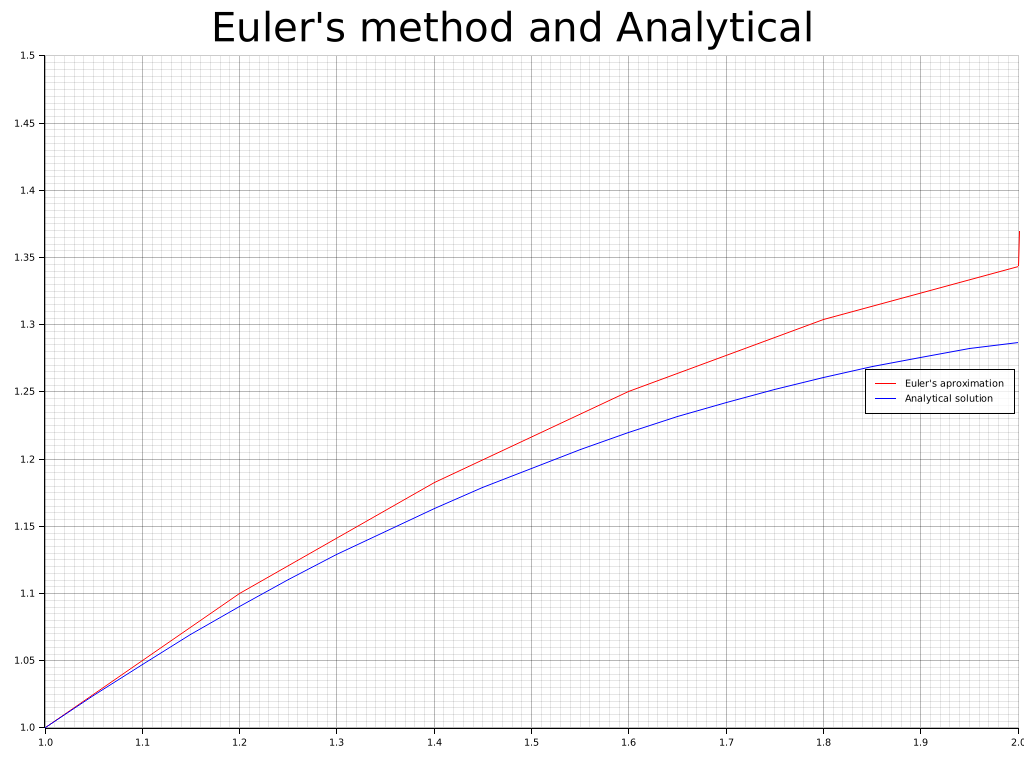
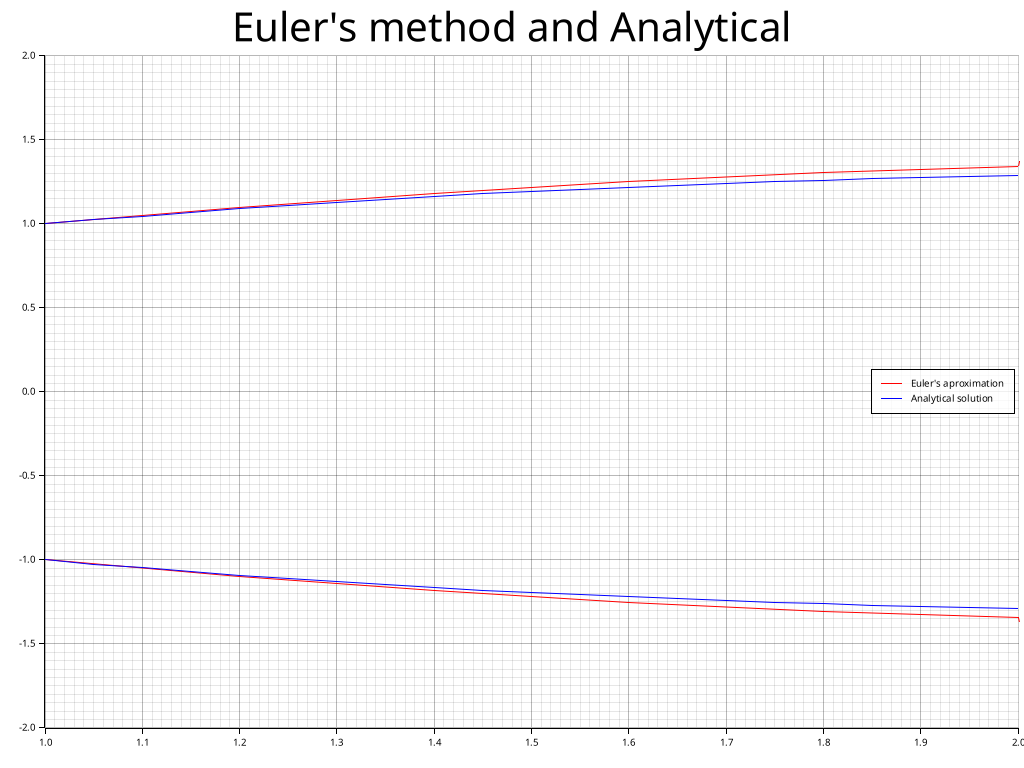
fix: two solvations now

Changed region(s): [[0.0, 0.0, 1.0, 0.9688]]

diff --git a/src/main.rs b/src/main.rs
@@ -125,7 +125,7 @@ fn main() -> Result<(), Box<dyn std::error::Error>> {
         .margin(5)
         .x_label_area_size(35)
         .y_label_area_size(40)
-        .build_cartesian_2d(A..B, 1f64..1.5)?;
+        .build_cartesian_2d(A..B, -2f64..2f64)?;
 
     chart.configure_mesh().draw()?;
 
@@ -138,6 +138,13 @@ fn main() -> Result<(), Box<dyn std::error::Error>> {
         .label("Euler's aproximation")
         .legend(|(x, y)| PathElement::new(vec![(x, y), (x + 20, y)], &RED));
 
+    chart
+        .draw_series(LineSeries::new(
+            xs.iter().zip(ys_e.iter().map(|y| -y)).map(|(&x, y)| (x, y)),
+            &RED
+        ))?;
+
+
     // Analytical graph
     chart
         .draw_series(LineSeries::new(
@@ -146,6 +153,12 @@ fn main() -> Result<(), Box<dyn std::error::Error>> {
         ))?
         .label("Analytical solution")
         .legend(|(x, y)| PathElement::new(vec![(x, y), (x + 20, y)], &BLUE));
+    chart
+        .draw_series(LineSeries::new(
+            xs_exact.iter().zip(ys_aex.iter().map(|y| -y)).map(|(&x, y)| (x, y)),
+            &BLUE
+        ))?;
+
 
 
     chart
